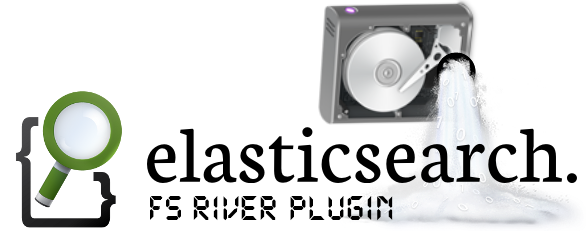
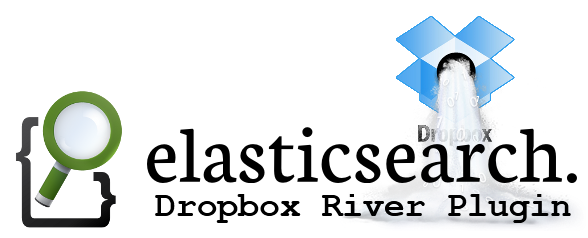
Update site

diff --git a/index.html b/index.html
@@ -56,7 +56,7 @@ title_in_header: false
     
     
     <div class="img_right">
-        <img height="120px" src="/dropbox/images/set3/hd2.png" alt="" />
+        <img height="120px" src="/dropbox/images/set3/dropbox.png" alt="" />
         <div class="text">
             <h2>
                 Dropbox River Plugin
@@ -69,26 +69,44 @@ title_in_header: false
                 It reads your files from a given dir at a given rate.
             </p>
             <p>
-            	As all rivers, it's quite simple to create an FS River :
+            	As all rivers, it's quite simple to create an Dropbox River :
             </p>
             <ul>
+            <li>Install the <a href="https://github.com/elasticsearch/elasticsearch-mapper-attachments">mapper attachment plugin</a></li>
             <li>Install the plugin and start Elasticsearch</li>
+            <li>Create or use a Dropbox application</li>
+            <li>Get authorization from the user to connect your application to its dropbox</li>
             <li>Create your index (with mapping if needed)</li>
             <li>Define the river</li>
             <li>Search for files</li>
             </ul>
-            <pre class="prettyprint lang-bsh">
-            
-$ bin\plugin -install dadoonet/fsriver/0.0.2
+<pre class="prettyprint lang-bsh">
+$ bin/plugin -install elasticsearch/elasticsearch-mapper-attachments/1.4.0
 
-$ bin\elasticsearch
+$ bin/plugin -install dadoonet/dropbox/0.0.1-SNAPSHOT
 
+$ bin/elasticsearch
+</pre>
+
+Create your <a href="https://www.dropbox.com/developers/apps">Dropbox Application</a> and note your <b>AppKey</b> and <b>AppSecret</b>.
+
+<pre class="prettyprint lang-bsh">
+$ curl http://localhost:9200/_dropbox/oauth/AppKey/AppSecret
+</pre>
+
+Open the URL you just get back and note the <b>token</b> and <b>secret</b>. You are now ready to create the dropbox river for your user.
+
+<pre class="prettyprint lang-bsh">
 $ curl -XPUT 'localhost:9200/mydocs/' -d '{}'
 
 $ curl -XPUT 'localhost:9200/_river/mydocs/_meta' -d '{
-  "type": "fs",
-  "fs": {
-	"name": "My tmp dir",
+  "type": "dropbox",
+  "dropbox": {
+    "appkey": "AAAAAAAAAAAAAAAA",
+    "appsecret": "BBBBBBBBBBBBBBBB",
+    "token": "XXXXXXXXXXXXXXXX",
+    "secret": "YYYYYYYYYYYYYYYY",
+	"name": "My tmp dropbox dir",
 	"url": "/tmp",
 	"update_rate": 900000,
 	"includes": "*.doc,*.pdf",
@@ -103,18 +121,21 @@ $ curl -XGET 'http://localhost:9200/mydocs/_search?q=taxe'
 
 <pre class="prettyprint lang-bsh">
 $ curl -XPUT 'localhost:9200/_river/mysecondriver/_meta' -d '{
-  "type": "fs",
-  "fs": {
-	"name": "My second tmp dir",
+  "type": "dropbox",
+  "dropbox": {
+    "appkey": "AAAAAAAAAAAAAAAA",
+    "appsecret": "BBBBBBBBBBBBBBBB",
+    "token": "2XXXXXXXXXXXXXXX",
+    "secret": "2YYYYYYYYYYYYYYY",
+	"name": "My tmp2 dropbox dir",
 	"url": "/tmp2",
 	"update_rate": 3600000,
-	"includes": "*.doc,*.pdf",
-	"excludes": "resume"
+	"includes": [ "*.doc" , "*.xls", "*.pdf" ]
   },
   "index": {
-    "index": "mydocs",
-    "type": "doc",
-    "bulk_size": 20
+  	"index": "mydocs",
+  	"type": "doc",
+  	bulk_size: 50
   }
 }'
 </pre>
